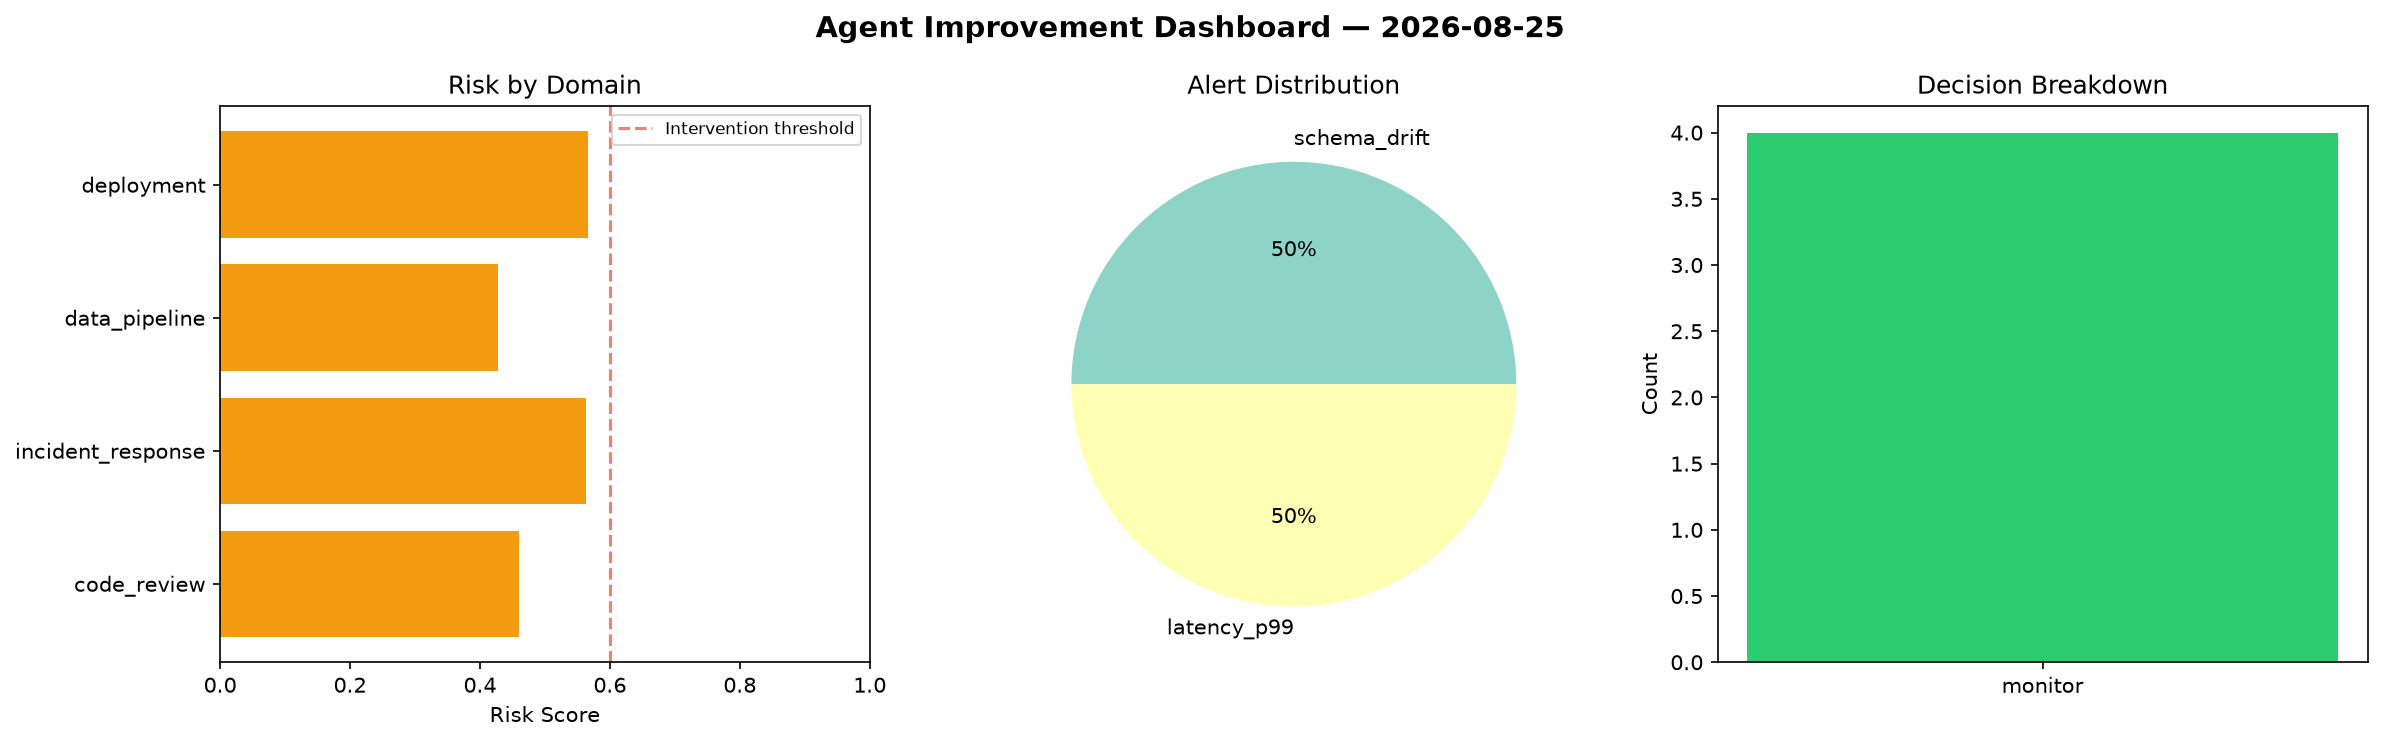
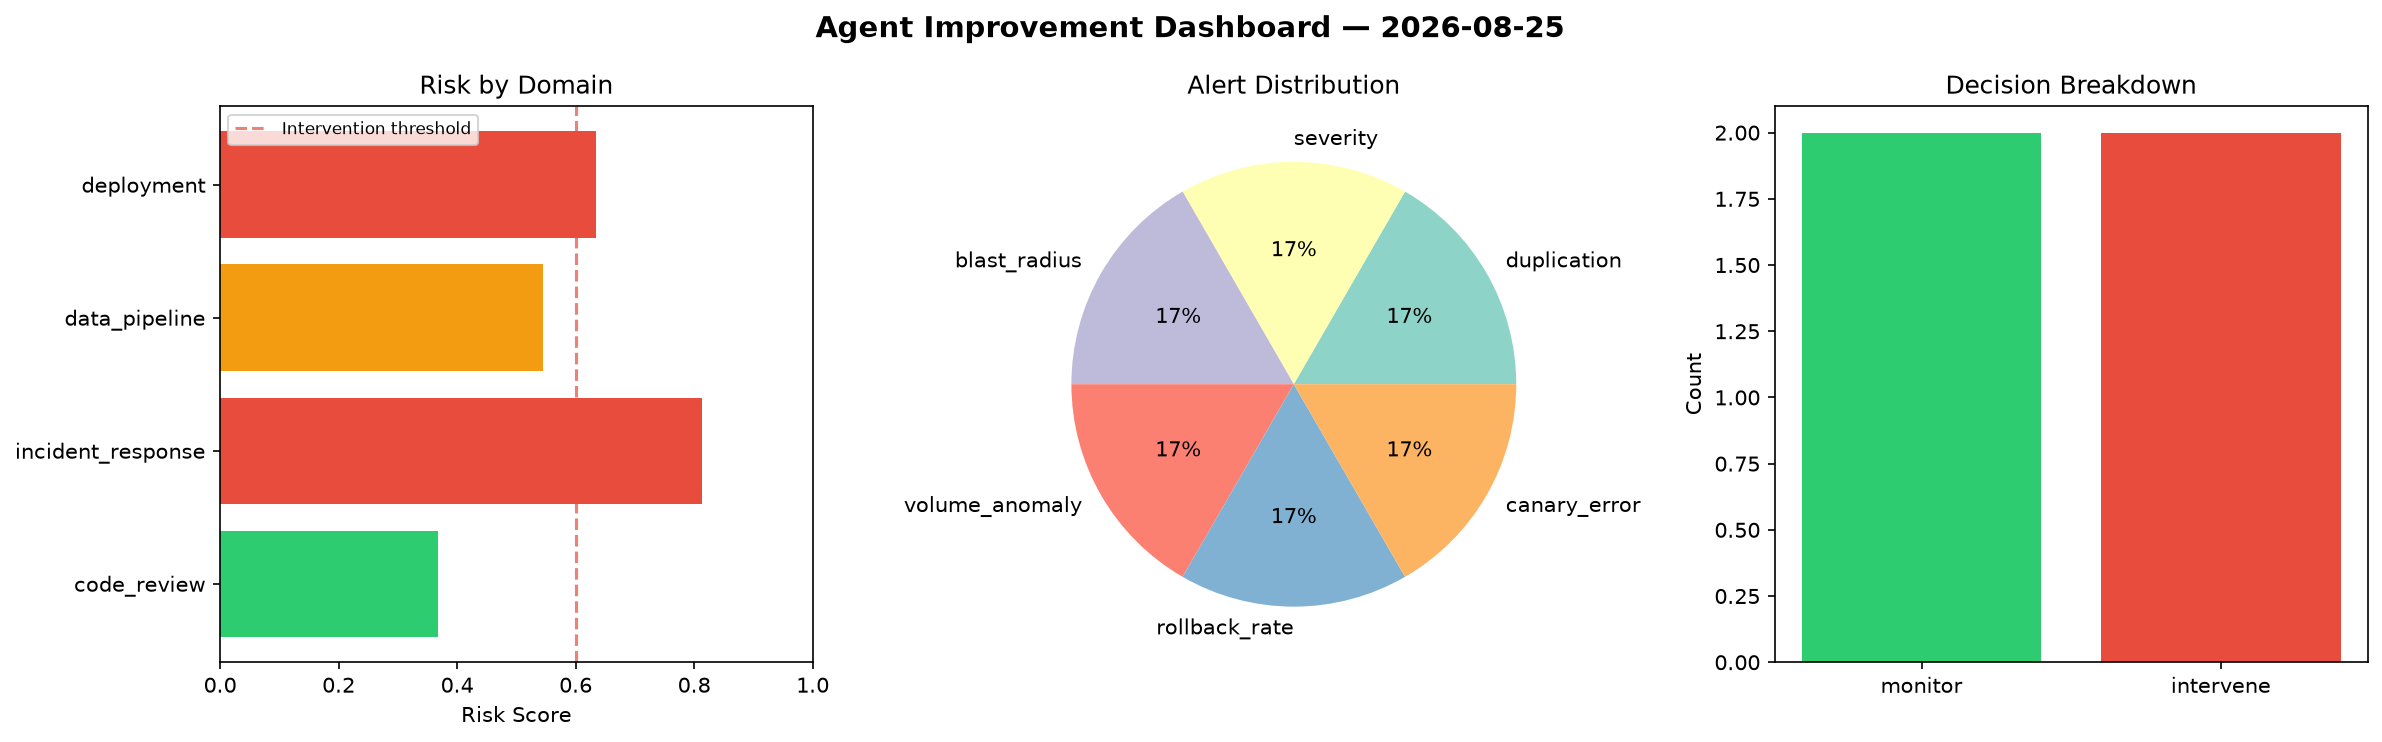
agent-improvement: daily cycle 2026-08-25T15:05

diff --git a/logs/2026-08-25.md b/logs/2026-08-25.md
@@ -1,6 +1,6 @@
 # Agent Improvement Report — 2026-08-25
 
-**Cycle ID:** `c5860985` | **Avg Risk:** 0.5045 | **Interventions:** 0/4
+**Cycle ID:** `c77645ba` | **Avg Risk:** 0.5902 | **Interventions:** 2/4
 
 ![Dashboard](2026-08-25_dashboard.png)
 
@@ -10,18 +10,18 @@
 
 | Domain | Risk Score | Decision | Alerts |
 |--------|-----------|----------|--------|
-| code_review | 0.4605 | monitor | none |
-| incident_response | 0.563 | monitor | none |
-| data_pipeline | 0.4283 | monitor | schema_drift |
-| deployment | 0.5661 | monitor | latency_p99 |
+| code_review | 0.368 | monitor | duplication |
+| incident_response | 0.8133 | intervene | severity, blast_radius |
+| data_pipeline | 0.5447 | monitor | volume_anomaly |
+| deployment | 0.6349 | intervene | rollback_rate, canary_error |
 
 ## Delta vs Yesterday
 
 | Domain | Today | Yesterday | Change |
 |--------|-------|-----------|--------|
-| code_review | 0.4605 | 0.1948 | 📈 136.4% |
-| incident_response | 0.563 | 0.7263 | 📉 -22.5% |
-| data_pipeline | 0.4283 | 0.4352 | 📉 -1.6% |
-| deployment | 0.5661 | 0.4487 | 📈 26.2% |
+| code_review | 0.368 | 0.1948 | 📈 88.9% |
+| incident_response | 0.8133 | 0.7263 | 📈 12.0% |
+| data_pipeline | 0.5447 | 0.4352 | 📈 25.2% |
+| deployment | 0.6349 | 0.4487 | 📈 41.5% |
 
 **Refinement:** `{'adjustment': 'tighten_thresholds', 'trend': 'degrading', 'window': 4}`
